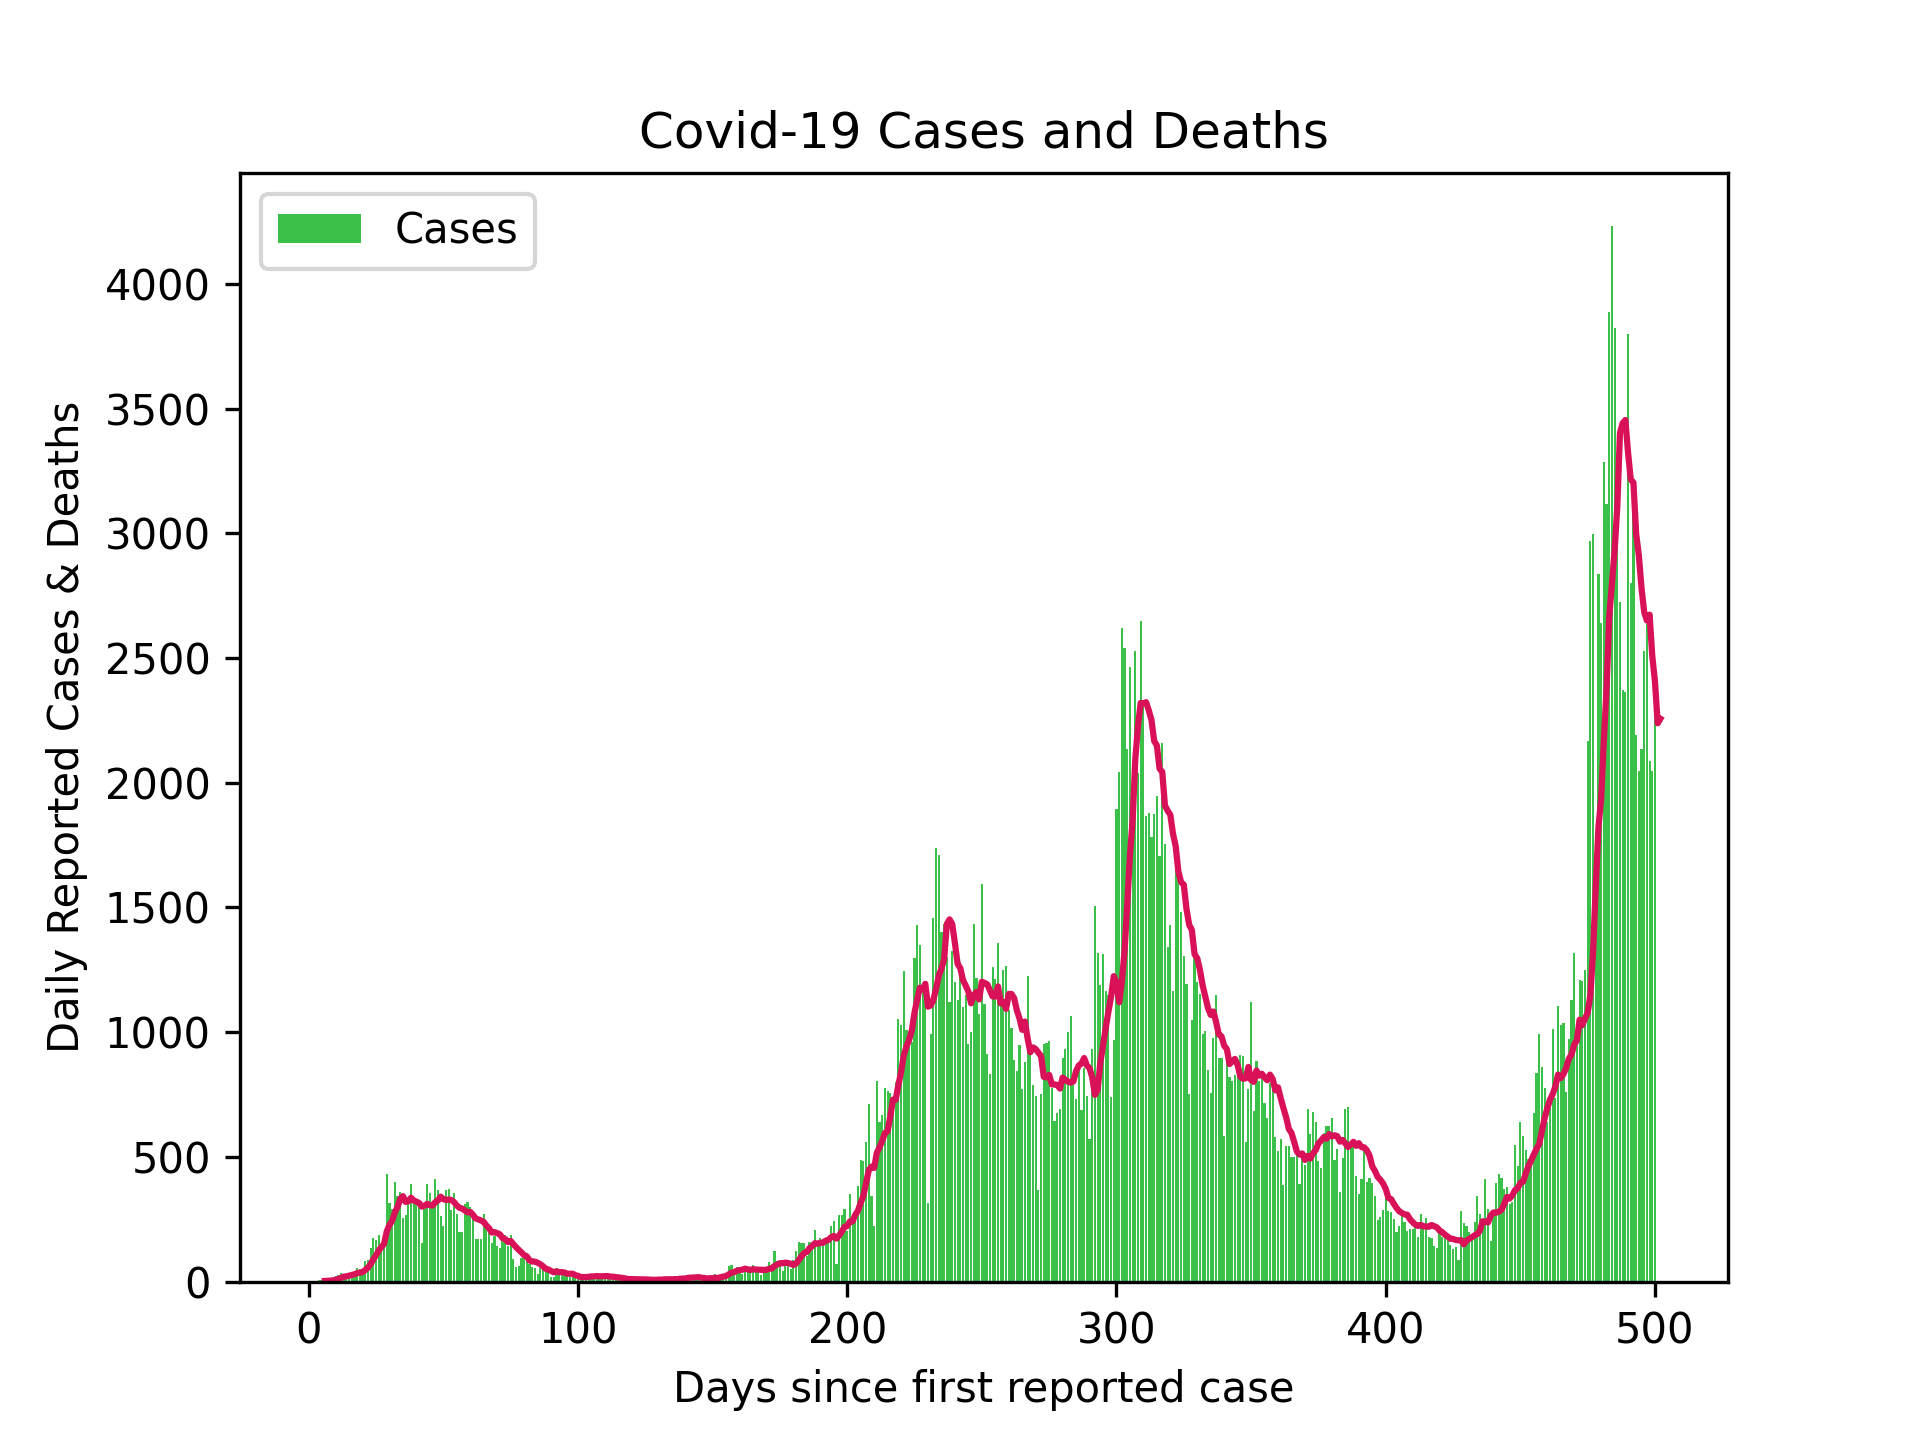
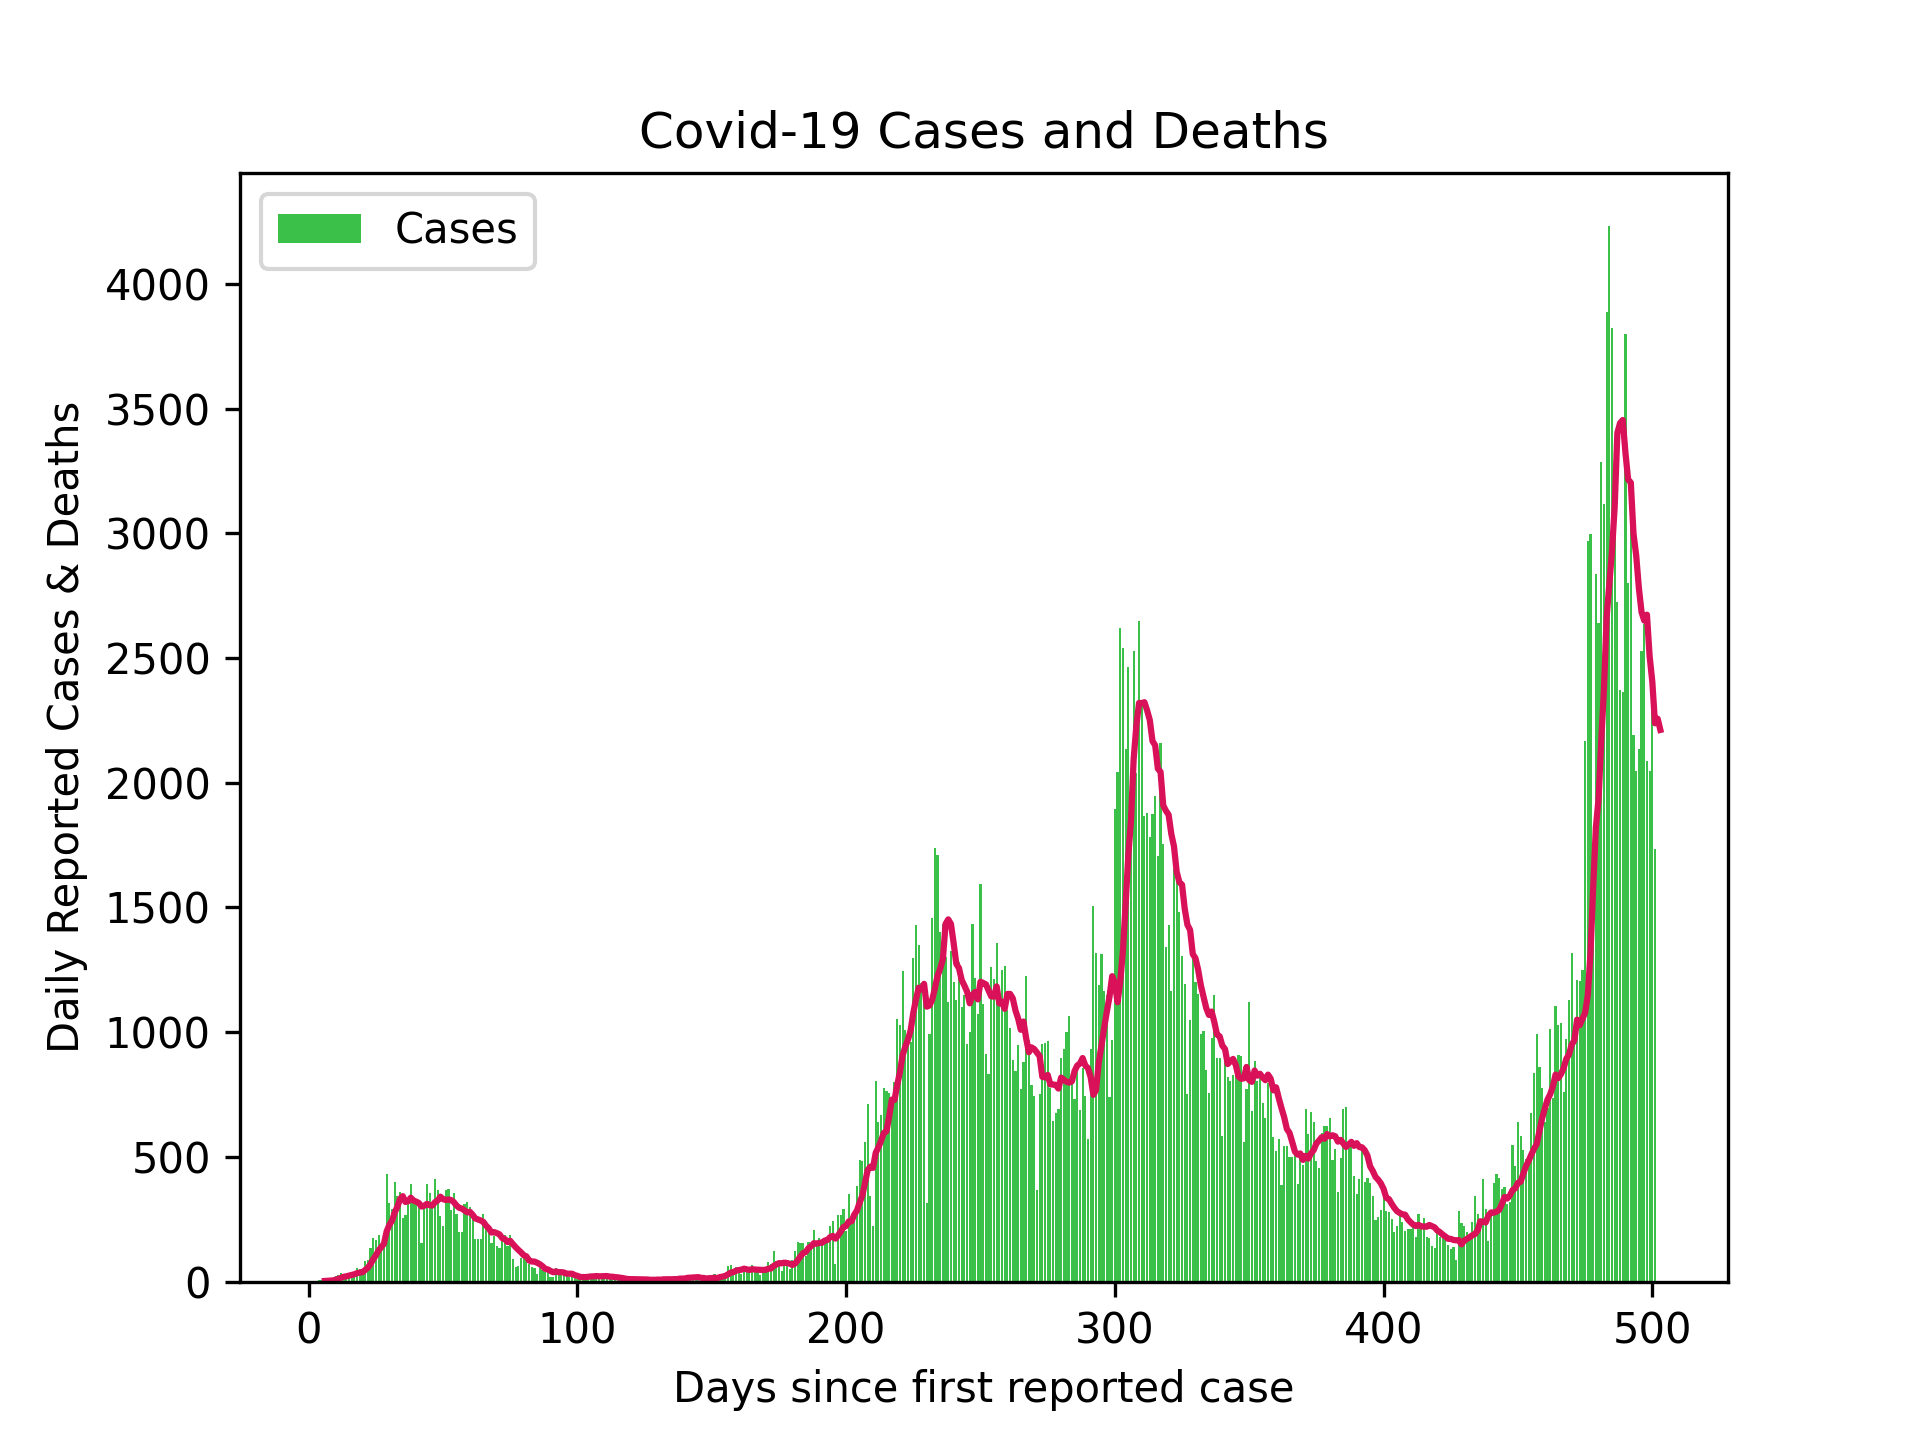
Updated Scottish cases 18/07/21

diff --git a/README.md b/README.md
@@ -1,4 +1,4 @@
-# Scottish Cases 17/07/21
+# Scottish Cases 18/07/21
 
 ![alt](scottish_cases.png)
 
